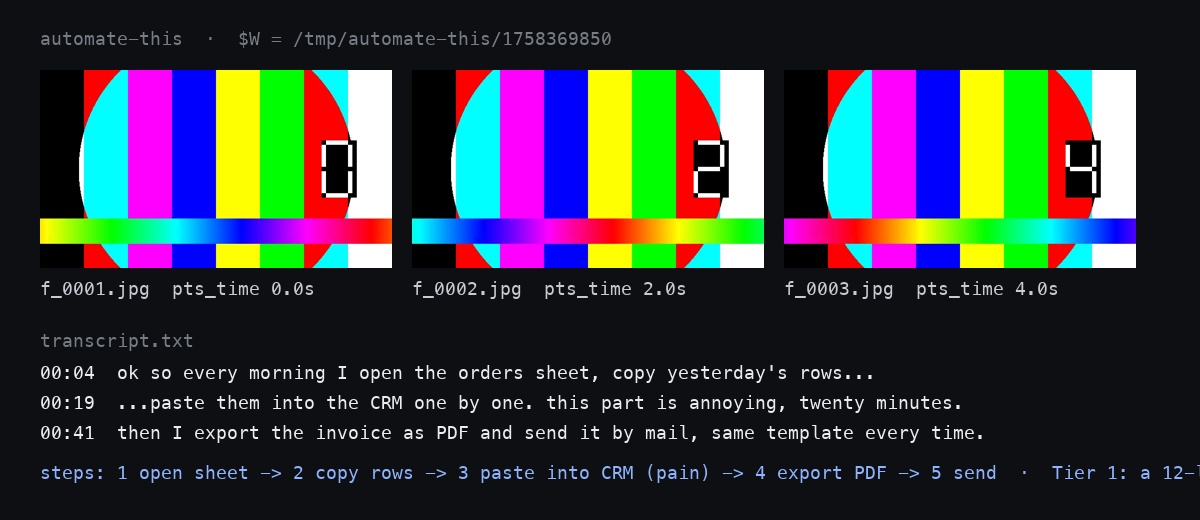
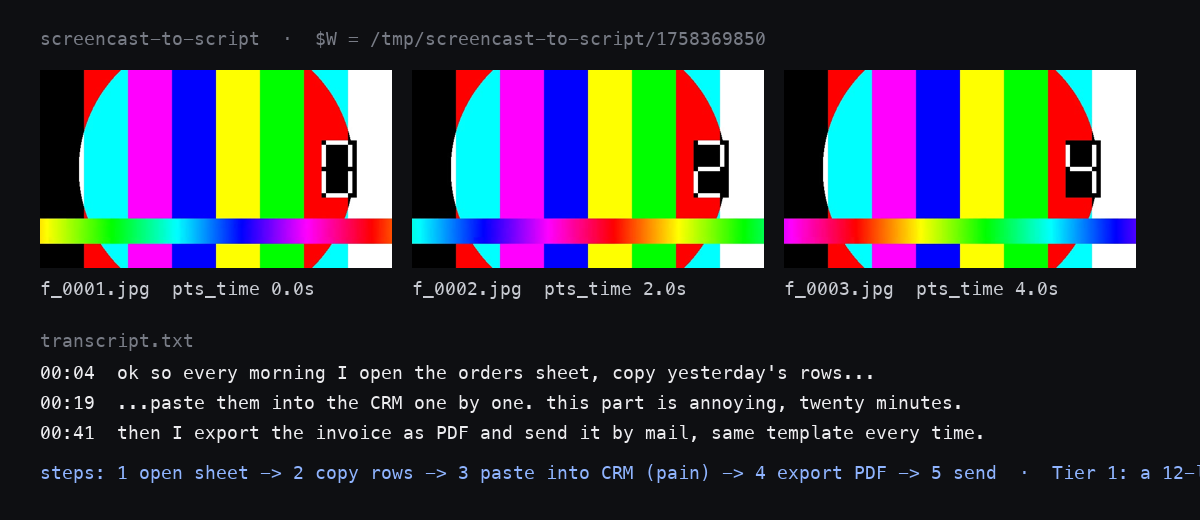
Rename leftovers

Changed region(s): [[0.2467, 0.0615, 0.6475, 0.0923], [0.0308, 0.0615, 0.2158, 0.0923]]

diff --git a/SKILL.md b/SKILL.md
@@ -16,7 +16,7 @@ Take a screen recording of a person doing a routine (ideally while talking) and 
 
 Working folder for this run:
 ```bash
-W="${TMPDIR:-/tmp}/automate-this/$(date +%s)"; mkdir -p "$W"
+W="${TMPDIR:-/tmp}/screencast-to-script/$(date +%s)"; mkdir -p "$W"
 ```
 Frames **on scene changes** (not on a timer: you do not miss slides, demos, cuts):
 ```bash
